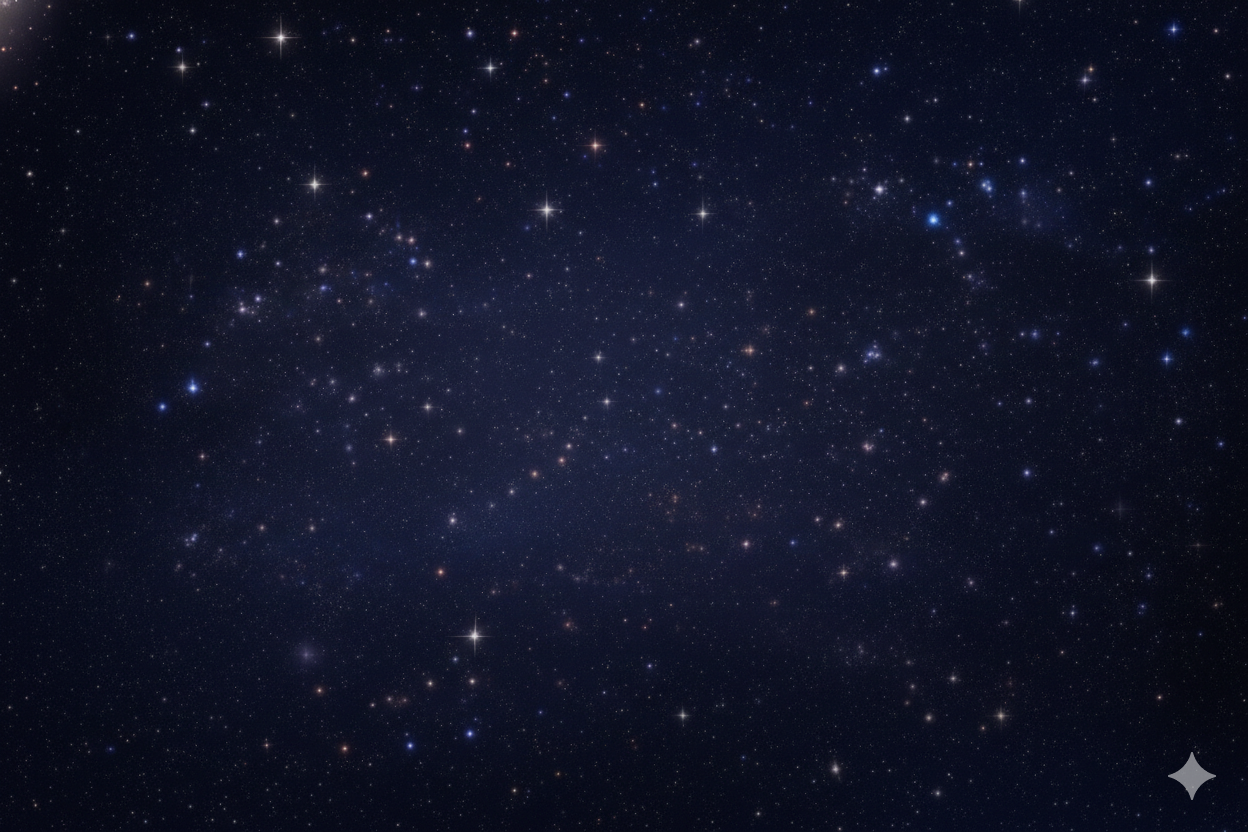
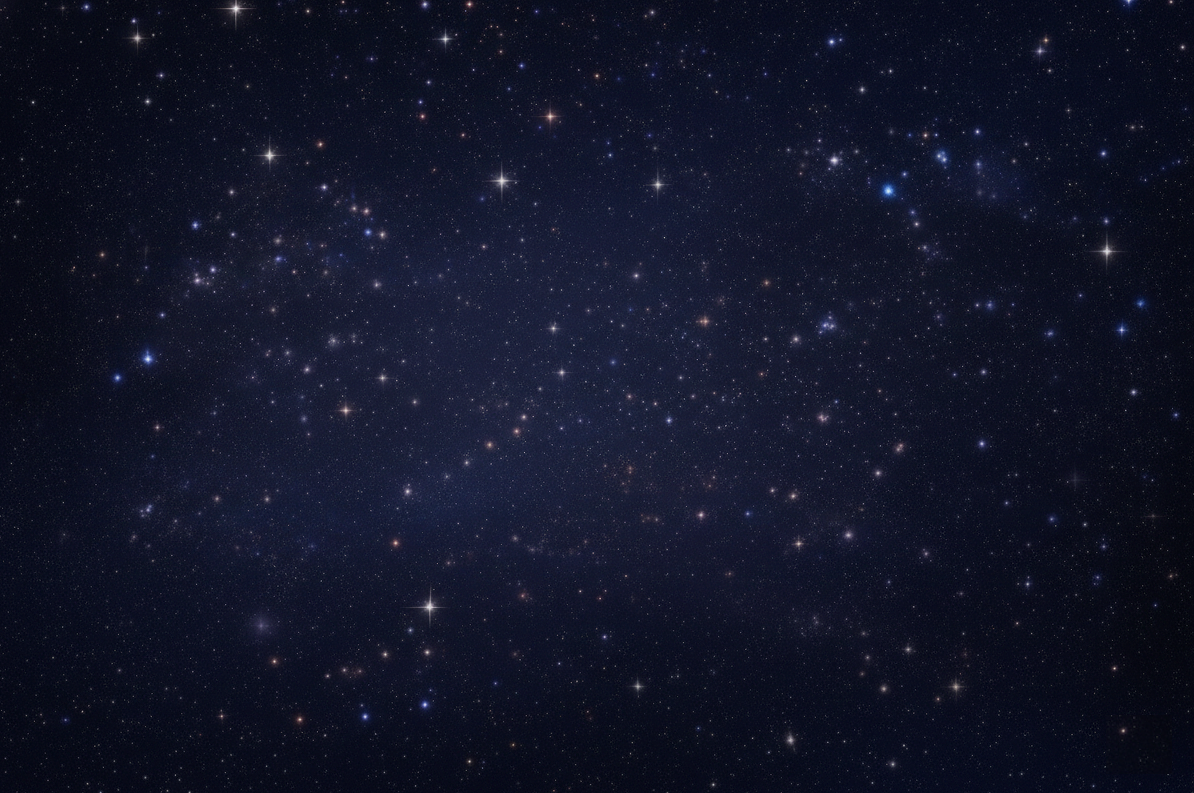
fix

diff --git a/app/vehicles/components/VehiclesContent.tsx b/app/vehicles/components/VehiclesContent.tsx
@@ -10,7 +10,7 @@ export default function VehiclesContent() {
     return (
         <>
             {/* Hero Banner */}
-            <section className="relative pt-32 pb-16 md:pt-40 md:pb-20 bg-[var(--qah-light)] overflow-hidden">
+            <section className="relative pt-32 pb-16 md:pt-40 md:pb-20 bg-[var(--qah-light)] bg-stars overflow-hidden">
                 <div className="absolute top-0 right-0 w-96 h-96 bg-[var(--qah-accent)]/5 rounded-full blur-3xl" />
                 <div className="absolute bottom-0 left-0 w-80 h-80 bg-[var(--qah-accent)]/3 rounded-full blur-3xl" />
 
@@ -67,7 +67,7 @@ export default function VehiclesContent() {
             </section>
 
             {/* CTA Section */}
-            <section className="py-16 md:py-20 bg-[var(--qah-light)]">
+            <section className="py-16 md:py-20 bg-[var(--qah-light)] bg-stars">
                 <div className="max-w-[1200px] mx-auto px-4 md:px-6">
                     <div className="bg-gradient-to-br from-[var(--qah-primary)] to-[var(--qah-primary)]/90 rounded-2xl p-8 md:p-12 text-center text-white relative overflow-hidden">
                         <div className="absolute top-0 right-0 w-40 h-40 bg-[var(--qah-accent)]/15 rounded-full blur-3xl" />

diff --git a/app/vehicles/[slug]/components/VehicleDetailContent.tsx b/app/vehicles/[slug]/components/VehicleDetailContent.tsx
@@ -27,7 +27,7 @@ export default function VehicleDetailContent({ vehicle }: VehicleDetailContentPr
       */}
 
             {/* Hero Banner */}
-            <section className="relative pt-32 pb-16 md:pt-40 md:pb-20 bg-[var(--qah-light)] overflow-hidden">
+            <section className="relative pt-32 pb-16 md:pt-40 md:pb-20 bg-[var(--qah-light)] bg-stars overflow-hidden">
                 <div className="absolute top-0 right-0 w-96 h-96 bg-[var(--qah-accent)]/5 rounded-full blur-3xl" />
                 <div className="absolute bottom-0 left-0 w-80 h-80 bg-[var(--qah-accent)]/3 rounded-full blur-3xl" />
 
@@ -171,7 +171,7 @@ export default function VehicleDetailContent({ vehicle }: VehicleDetailContentPr
             </section>
 
             {/* View Other Vehicles */}
-            <section className="py-16 md:py-20 bg-[var(--qah-light)]">
+            <section className="py-16 md:py-20 bg-[var(--qah-light)] bg-stars">
                 <div className="max-w-[1200px] mx-auto px-4 md:px-6">
                     <div className="text-center mb-10">
                         <h2 className="text-[28px] md:text-[36px] font-bold text-[var(--qah-white)]">

diff --git a/app/about/AboutContent.tsx b/app/about/AboutContent.tsx
@@ -18,7 +18,7 @@ export default function AboutContent() {
             <Navbar />
 
             {/* Hero Section */}
-            <section className="relative pt-32 pb-16 md:pt-40 md:pb-24 bg-[var(--qah-light)] overflow-hidden">
+            <section className="relative pt-32 pb-16 md:pt-40 md:pb-24 bg-[var(--qah-light)] bg-stars overflow-hidden">
                 <div className="absolute inset-y-0 right-0 w-1/2 bg-[var(--qah-primary)]/20 blur-3xl" />
                 <div className="absolute -bottom-24 -left-24 w-72 h-72 bg-[var(--qah-accent)]/20 rounded-full blur-[120px]" />
 
@@ -111,7 +111,7 @@ export default function AboutContent() {
             </section>
 
             {/* Stats Section */}
-            <section className="py-16 md:py-24 bg-[var(--qah-light)]">
+            <section className="py-16 md:py-24 bg-[var(--qah-light)] bg-stars">
                 <div className="max-w-[1200px] mx-auto px-4 md:px-6">
                     <div className="text-center mb-12 space-y-4">
                         <span className="inline-block px-4 py-1.5 bg-[var(--qah-accent)] text-white text-sm font-semibold rounded-full">

diff --git a/app/services/[slug]/components/ServiceDetailContent.tsx b/app/services/[slug]/components/ServiceDetailContent.tsx
@@ -34,7 +34,7 @@ export default function ServiceDetailContent({ service }: ServiceDetailContentPr
   return (
     <>
       {/* Hero Banner */}
-      <section className="relative pt-32 pb-16 md:pt-40 md:pb-20 bg-[var(--qah-light)] overflow-hidden">
+      <section className="relative pt-32 pb-16 md:pt-40 md:pb-20 bg-[var(--qah-light)] bg-stars overflow-hidden">
         {/* Background decorations */}
         <div className="absolute top-0 right-0 w-96 h-96 bg-[var(--qah-accent)]/5 rounded-full blur-3xl" />
         <div className="absolute bottom-0 left-0 w-80 h-80 bg-[var(--qah-accent)]/3 rounded-full blur-3xl" />
@@ -214,7 +214,7 @@ export default function ServiceDetailContent({ service }: ServiceDetailContentPr
       </section>
 
       {/* View Other Services */}
-      <section className="py-16 md:py-20 bg-[var(--qah-light)]">
+      <section className="py-16 md:py-20 bg-[var(--qah-light)] bg-stars">
         <div className="max-w-[1200px] mx-auto px-4 md:px-6">
           <div className="text-center mb-10">
             <h2 className="text-[28px] md:text-[36px] font-bold text-[var(--qah-white)]">

diff --git a/app/globals.css b/app/globals.css
@@ -63,21 +63,15 @@
 /* Bounce animation for promotion flyer */
 @keyframes bounceFloat {
   0%, 100% {
-    transform: translateY(0) scale(1);
-  }
-  25% {
-    transform: translateY(-8px) scale(1.02);
+    transform: translateY(0);
   }
   50% {
-    transform: translateY(-12px) scale(1.03);
-  }
-  75% {
-    transform: translateY(-8px) scale(1.02);
+    transform: translateY(-10px);
   }
 }
 
 .animate-bounce-float {
-  animation: bounceFloat 2.5s ease-in-out infinite;
+  animation: bounceFloat 3s cubic-bezier(0.4, 0, 0.6, 1) infinite;
 }
 
 /* Animated border glow effect */
@@ -112,7 +106,7 @@
 /* Stars background for dark sections — overlay baked into the background layer */
 .bg-stars {
   background-image:
-    linear-gradient(rgba(6, 14, 28, 0.6), rgba(6, 14, 28, 0.6)),
+    linear-gradient(rgba(6, 14, 28, 0.5), rgba(6, 14, 28, 0.5)),
     url('/stars.png');
   background-size: cover, 600px;
   background-repeat: no-repeat, repeat;

diff --git a/app/services/components/ServicesContent.tsx b/app/services/components/ServicesContent.tsx
@@ -37,7 +37,7 @@ export default function ServicesContent() {
 
   return (
     <>
-      <section ref={heroRef} className="pt-32 pb-16 md:pt-40 md:pb-24 bg-[var(--qah-light)] opacity-0">
+      <section ref={heroRef} className="pt-32 pb-16 md:pt-40 md:pb-24 bg-[var(--qah-light)] bg-stars opacity-0">
         <div className="max-w-[1200px] mx-auto px-4 md:px-6">
           <div className="text-center max-w-3xl mx-auto space-y-6">
             <span className="inline-block px-4 py-1.5 bg-[var(--qah-accent)] text-white text-sm font-semibold rounded-full">

diff --git a/app/contact/components/ContactPageContent.tsx b/app/contact/components/ContactPageContent.tsx
@@ -8,7 +8,7 @@ export default function ContactPageContent() {
   const ui = dict.contactPage;
 
   return (
-    <section className="relative pt-32 pb-16 md:pt-40 md:pb-20 bg-[var(--qah-light)] overflow-hidden">
+    <section className="relative pt-32 pb-16 md:pt-40 md:pb-20 bg-[var(--qah-light)] bg-stars overflow-hidden">
       <div className="absolute top-0 right-0 w-96 h-96 bg-[var(--qah-accent)]/5 rounded-full blur-3xl" />
       <div className="absolute bottom-0 left-0 w-80 h-80 bg-[var(--qah-accent)]/3 rounded-full blur-3xl" />
 
